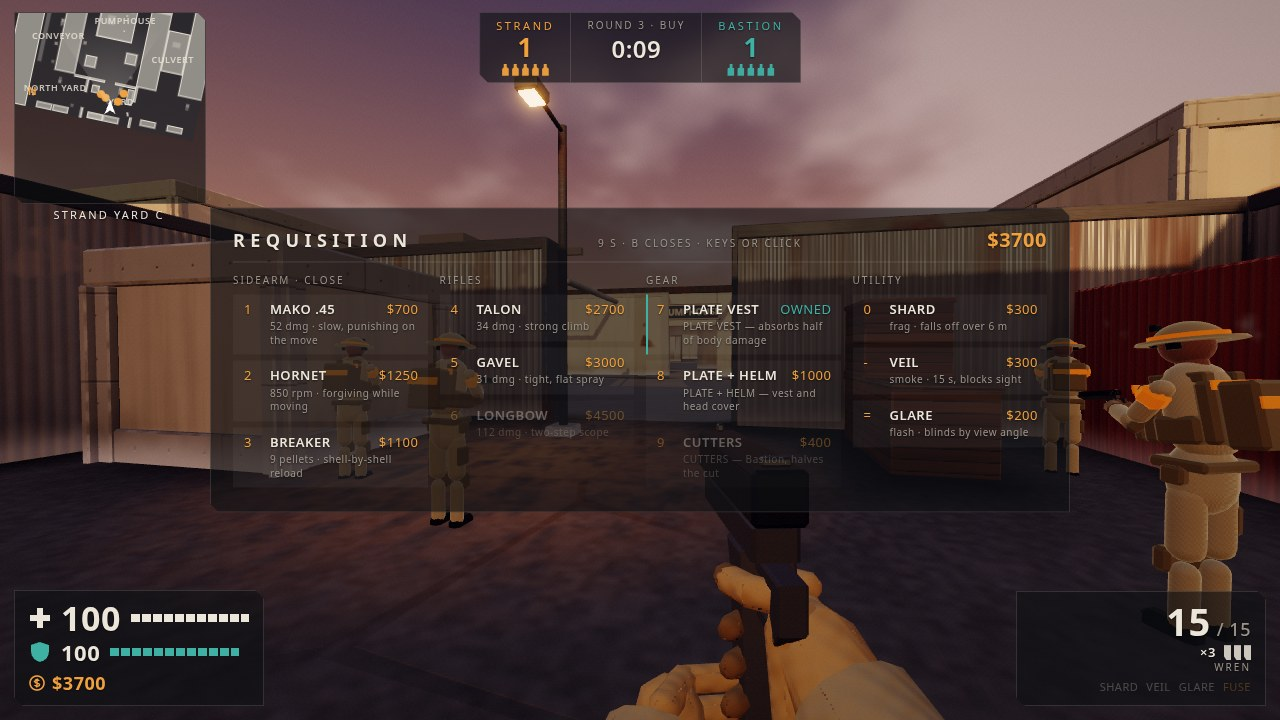
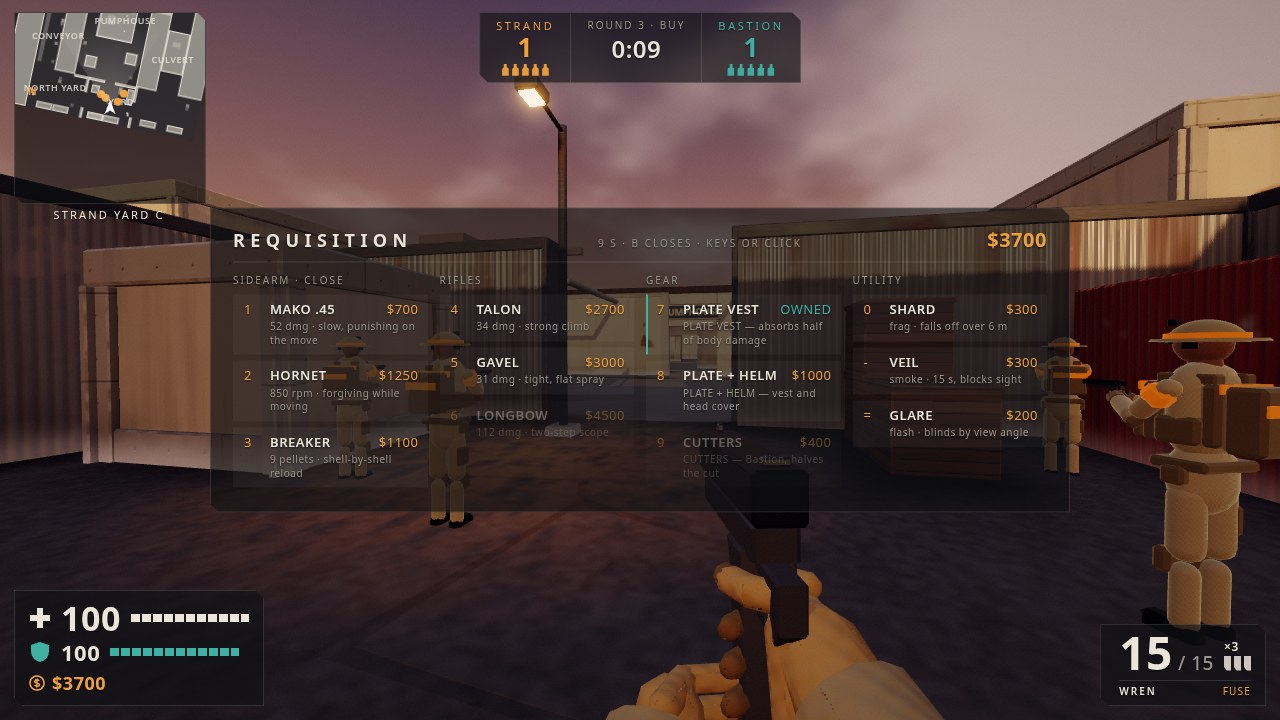
Round 3: remove viewmodel sling, compact ammo panel (mag count beside the numbers, weapon and owned grenades in one footer row), hide tracers on paused frames

diff --git a/game/style.css b/game/style.css
@@ -39,16 +39,19 @@ html,body{margin:0;height:100%;overflow:hidden;background:#000;color:var(--ink);
 #dCash.up,#dCash.dn{animation:cash 1.4s ease-out}
 #dCash.dn{color:var(--red)}
 @keyframes cash{0%{opacity:1;transform:translateY(4px)}70%{opacity:1}to{opacity:0;transform:translateY(-6px)}}
-#wpn{right:14px;bottom:14px;width:250px;padding:10px 14px;text-align:right}
-#ammo{font-size:38px;font-weight:700;line-height:1}
-#ammo small{font-size:18px;color:var(--mute);font-weight:500;margin-left:6px}
-#mags{display:flex;justify-content:flex-end;align-items:center;gap:3px;height:16px;margin-top:5px}
-#mags span{font-size:13px;font-weight:600;margin-right:5px}
-#mags i{width:7px;height:15px;background:var(--ink);opacity:.85;clip-path:polygon(0 0,100% 0,100% 100%,35% 100%,0 75%)}
+#wpn{right:14px;bottom:14px;padding:7px 14px 7px 18px;display:grid;grid-template-columns:auto auto;column-gap:10px;align-items:end}
+#ammo{font-size:46px;font-weight:700;line-height:.9;text-align:right}
+#ammo small{font-size:19px;color:var(--mute);font-weight:500;margin-left:5px}
 #ammo.low{color:var(--red)}
-#nades{display:flex;gap:8px;justify-content:flex-end;margin-top:6px;font-size:11px}
-#nades span{opacity:.25}
-#nades span.on{opacity:1}
+#mags{display:flex;flex-direction:column;gap:3px;padding-bottom:3px}
+#mags span{font-size:12px;font-weight:600;line-height:1}
+#mags b{display:flex;gap:3px}
+#mags i{width:7px;height:15px;background:var(--ink);opacity:.85;clip-path:polygon(0 0,100% 0,100% 100%,35% 100%,0 75%)}
+#wf{grid-column:1/-1;display:flex;justify-content:space-between;align-items:baseline;gap:12px;border-top:1px solid var(--line);margin-top:6px;padding-top:4px}
+#wname{color:var(--ink);font-weight:600}
+#nades{display:flex;gap:7px;justify-content:flex-end;font-size:10px;letter-spacing:.12em}
+#nades span{display:none}
+#nades span.on,#nades #kit{display:inline}
 #nades span.sel{color:var(--amber)}
 #cross{position:absolute;left:50%;top:50%;--g:6px}
 #cross i{position:absolute;background:#f4f0e6;box-shadow:0 0 0 1px rgba(0,0,0,.45)}

diff --git a/game/index.html b/game/index.html
@@ -31,8 +31,8 @@ art (all procedural): post.js, lighting.js, materials.js, geo.js, weapons-art.js
 <div class="row" style="margin-top:6px"><svg width="22" height="22" viewBox="0 0 22 22"><path d="M11 1l9 3v6c0 6-4 10-9 11C6 20 2 16 2 10V4z" fill="#3fb0a4"/></svg><span class="big" id="ar" style="font-size:22px">0</span><div class="bar" id="arm"><i></i></div><span class="lbl" id="helm"></span></div>
 <div id="money"><svg width="16" height="16" viewBox="0 0 16 16"><circle cx="8" cy="8" r="7" fill="none" stroke="#f0a03c" stroke-width="1.6"/><path d="M8 3.5v9M10.4 5.6C9.6 4.6 5.6 4.5 5.6 6.4S10.6 7.8 10.6 9.8 6.3 11.4 5.4 10.3" fill="none" stroke="#f0a03c" stroke-width="1.4"/></svg><span id="cash">$900</span><b id="dCash"></b></div>
 </div>
-<div class="pn" id="wpn"><div id="ammo">30<small>/ 30</small></div><div id="mags"></div><div class="lbl" id="wname">TALON</div>
-<div id="nades"><span id="nS">SHARD</span><span id="nV">VEIL</span><span id="nG">GLARE ×0</span><span id="kit" style="color:var(--amber)"></span></div></div>
+<div class="pn" id="wpn"><div id="ammo">30<small>/ 30</small></div><div id="mags"></div><div id="wf"><div class="lbl" id="wname">TALON</div>
+<div id="nades"><span id="nS">SHARD</span><span id="nV">VEIL</span><span id="nG">GLARE ×0</span><span id="kit" style="color:var(--amber)"></span></div></div></div>
 <div id="cross"><i></i><i></i><i></i><i></i></div>
 <div id="hit"><i style="transform:rotate(45deg) translateY(-14px)"></i><i style="transform:rotate(135deg) translateY(-14px)"></i><i style="transform:rotate(225deg) translateY(-14px)"></i><i style="transform:rotate(315deg) translateY(-14px)"></i></div>
 <div id="banner" hidden><h1 id="bT"></h1><h2 id="bS"></h2></div>

diff --git a/game/js/art/viewmodel.js b/game/js/art/viewmodel.js
@@ -31,7 +31,7 @@ const hgArc = (z, [cy, rx, ry], deg) => deg.map((d) => P((rx + .009) * Math.cos(
 // Left hand: palm under the handguard, four fingers up its right side, thumb along the left (long guns), or cupping
 // the right hand (pistols). Gloves are light coyote against the dark gun; sleeves are muted team cloth.
 function buildArms(team, w, knife) {
-	const R = new Bld(), L = new Bld(), glove = lin(0xa48a62), tip = lin(0x7c6646), sleeve = lin(new Color(TEAM_LOOK[team].cloth).lerp(new Color(0x3c3d3e), .5).getHex()), strap = lin(0x2c2b27);
+	const R = new Bld(), L = new Bld(), glove = lin(0xa48a62), tip = lin(0x7c6646), sleeve = lin(new Color(TEAM_LOOK[team].cloth).lerp(new Color(0x3c3d3e), .5).getHex());
 	seg(R, P(.006,-.04,.05), P(.008,-.094,.064), .017, glove);
 	pad(R, .02,-.064,.036,.013,.036,.03,-.23, glove);
 	for (const y of [-.052,-.072,-.092]) finger(R, gripArc(y, [25,-40,-105,-165]), .0092, glove, tip);
@@ -47,7 +47,6 @@ function buildArms(team, w, knife) {
 		const wx = -rx - .012, wy = cy - ry - .004, wz = z + .055;
 		seg(L, P(wx + .004, wy + .004, wz - .01), P(wx - .018, wy - .026, wz + .03), .026, glove);
 		limb(L, _a.set(wx - .012, wy - .018, wz + .02), _b.set(wx - .17, wy - .22, wz + .18), .034,.046, sleeve, 0);
-		seg(L, P(-.026, cy - .01, z + .09), P(-.05,-.06, z + .26), .005, strap); seg(L, P(-.05,-.06, z + .26), P(-.13,-.2, z + .5), .005, strap);
 	} else if (!knife) {
 		const [x, y, z] = [-.03,-.075,.015];
 		seg(L, P(x - .03, y - .02, z + .01), P(x - .026, y - .06, z + .02), .02, glove);

diff --git a/game/js/hud.js b/game/js/hud.js
@@ -102,7 +102,7 @@ export function createHud(map) {
 			if (v.grenadeMode) html('ammo', `${v.nades[v.nadeSel]} <small>LMB THROW · RMB LOB</small>`);
 			else html('ammo', w.cls === 'knife' ? '—' : `${am.mag}<small>/ ${w.mag}</small>`);
 			const mags = w.cls === 'knife' || v.grenadeMode ? -1 : Math.ceil(am.reserve / w.mag); // spare magazines, one icon each
-			if (last.mags !== mags) { last.mags = mags; html('mags', mags < 0 ? '' : `<span>×${mags}</span>${'<i></i>'.repeat(Math.min(mags, 8))}`); }
+			if (last.mags !== mags) { last.mags = mags; html('mags', mags < 0 ? '' : `<span>×${mags}</span><b>${'<i></i>'.repeat(Math.min(mags, 8))}</b>`); }
 			cls('ammo', 'low', !v.grenadeMode && w.mag > 0 && am.mag <= Math.ceil(w.mag / 5));
 			text('wname', v.grenadeMode ? GRENADES[v.nadeSel].name : `${w.name}${v.reloadT > 0 || v.reloadShell > 0 ? ' · RELOADING' : ''}`);
 			for (const [k, id] of [['nS', 'shard'], ['nV', 'veil'], ['nG', 'glare']]) { text(k, `${GRENADES[id].name}${v.nades[id] > 1 ? ' ×' + v.nades[id] : ''}`); cls(k, 'on', v.nades[id] > 0); cls(k, 'sel', v.grenadeMode && v.nadeSel === id); }

diff --git a/game/js/art/fx.js b/game/js/art/fx.js
@@ -80,7 +80,8 @@ export function createFx(scene) {
 		update(state, vm, dt, chars, eye) {
 			while (state.fxHead !== state.fxTail) { event(state.fxEvents[state.fxHead], vm, chars, eye); state.fxHead = (state.fxHead + 1) % state.fxEvents.length; }
 			lightT = Math.max(0, lightT - dt); light.intensity = lightMax * lightT / lightDur;
-			for (const tr of tracers) if (tr.m.visible) { // a thin 1.8 m streak flying at 520 m/s from the muzzle to the hit point
+			for (const tr of tracers) if (tr.m.visible) { // a thin 1.8 m streak flying at 520 m/s; a paused frame never holds one
+				if (!dt) { tr.m.visible = false; continue; }
 				const d = (tr.t += dt) * 520;
 				if (d > tr.len + 1.2) tr.m.visible = false;
 				else { tr.m.position.lerpVectors(tr.a, tr.b, Math.min(1, d / tr.len)); tr.m.lookAt(tr.b); }
